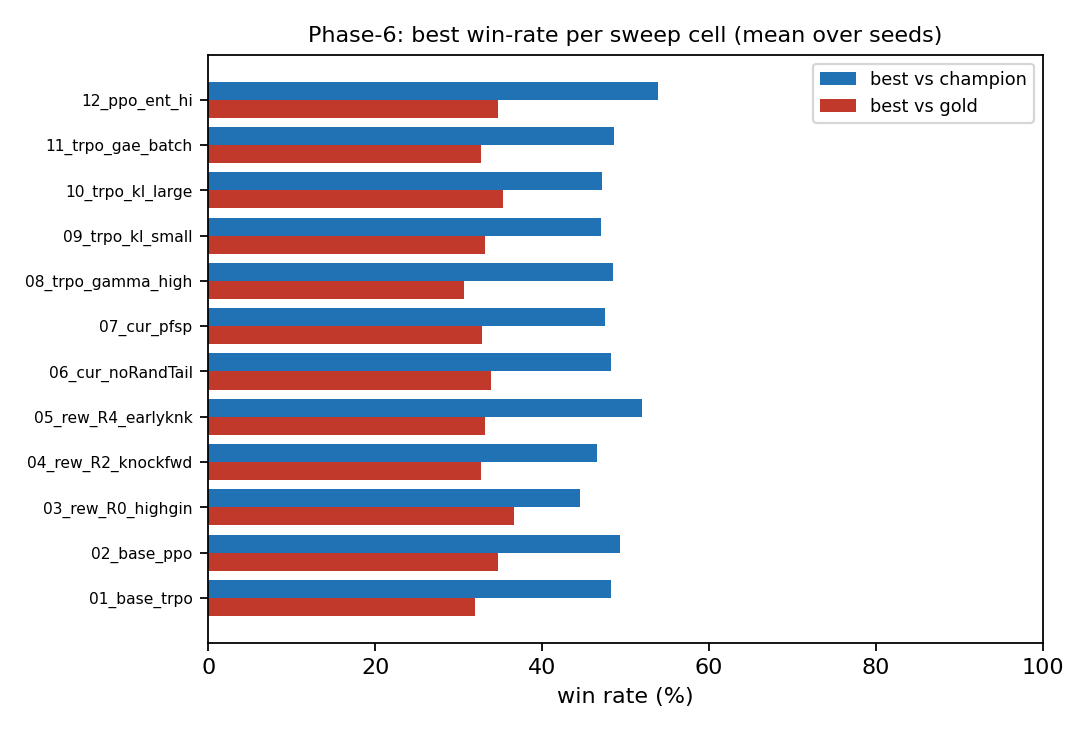
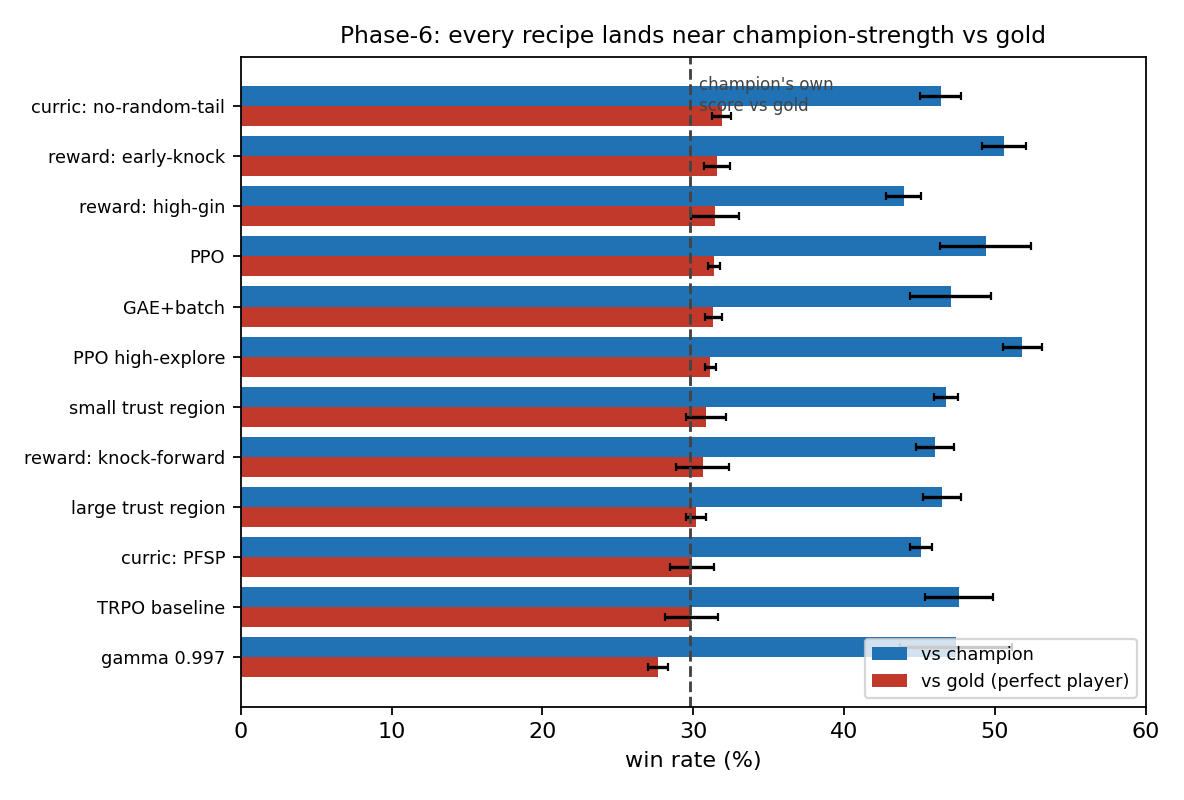
Phase-6 sweep complete (30/30 runs): results, plots, and plain-language docs writeup
All 30 cells finished. Honest headline: every recipe lands near champion-strength vs gold
(~30% final, ~33-37% best-of-curve) and 45-52% vs champion; no single lever breaks past the
perfect player. Clean win = the reward finding: gin-rate stays <1% for EVERY reward, even
paying 3x for a gin (R0 gin% 0.38 vs balanced 0.44) -> the optimal-rarely-gins thesis holds
across 30 runs; R4 early-knock gives the shortest games + best champion score. TRPO~=PPO with
a full curriculum; PFSP/no-random-tail within noise; gamma=0.997 slightly hurt. Two new
figures (per-cell results + the reward/gin-length panel), a grouped results table, and a
simple whole-story section. Cross-checked against W&B group phase6-curriculum (30 runs).

Changed region(s): [[0.0312, 0.0312, 1.0, 0.9688]]

diff --git a/docs/index.html b/docs/index.html
@@ -365,55 +365,69 @@ ol li,ul li{margin:4px 0;}
 </section>
 
 <section id="curriculum">
-  <h2><span class="n">11</span>Closing the gap to gold: algorithm &times; reward &times; curriculum</h2>
-  <p>The gold-standard agent beats every learned agent (the champion wins only ~30% vs gold). To
-  push past that ceiling we run one big, controlled sweep over the three levers most likely to help,
-  each as a <b>one-factor ablation</b> around a strong baseline (TRPO, balanced reward, a league-lite
-  curriculum) so every result isolates a single cause &mdash; 12 cells, 30 runs (2&ndash;3 seeds each).</p>
+  <h2><span class="n">11</span>Can we finally beat the perfect player? A 30-run experiment</h2>
+  <p>The gold-standard agent plays Gin Rummy perfectly. Even our strongest earlier agent, the
+  <i>champion</i>, only wins about <b>30%</b> of games against it. So we asked a simple question:
+  if we are smarter about <b>how the agent learns</b>, <b>what we reward it for</b>, and <b>who it
+  practices against</b>, can we close that gap? We ran <b>30 training runs</b> &mdash; each one
+  changing exactly <i>one</i> thing from a strong baseline, so any difference has a clear cause.</p>
 
-  <h3>1 &middot; Best algorithm</h3>
-  <p>Our earlier study already showed <b>TRPO &gt; PPO</b> under identical masking, so TRPO is the
-  baseline; PPO is the comparison arm. We add the drop-in levers a terminal-only, long-horizon card
-  game actually wants: a longer discount (&gamma;=0.997, so credit reaches ~40 decisions back instead
-  of decaying to 0.67), reward normalization, and a larger-batch / lower-variance-advantage TRPO cell.
-  (NFSP and Deep&nbsp;CFR are multi-week rebuilds, not drop-ins; RecurrentPPO is deferred because our
-  stateless evaluator would mis-score an LSTM.)</p>
+  <figure class="fig" style="max-width:680px;margin:0 auto;"><img src="https://raw.githubusercontent.com/Nikelroid/adversarial-coevolution/main/paper/figures/curriculum.png" alt="Phase-6 results: win rate vs champion and vs gold per recipe" loading="lazy"/><figcaption>Every recipe (averaged over its seeds) lands near the same place: about champion-strength against the perfect player. Blue = vs the old champion, red = vs gold; the dashed line is the champion&rsquo;s own score vs gold.</figcaption></figure>
 
-  <h3>2 &middot; Best reward (the optimal player almost never gins)</h3>
-  <p>The mechanism insight comes straight from the <a href="#gold">gold benchmark</a>: the <b>optimal
-  player gins only 0.7&ndash;1.7%</b> of the time yet wins 70&ndash;99% &mdash; it wins by <i>knocking
-  early with low deadwood</i>, not by chasing gin. So a reward that privileges gin is miscalibrated.
-  We test four designs: <b>R1</b> balanced (gin not privileged, the baseline), <b>R0</b> high-gin (the
-  current setting, run as a negative control &mdash; we expect gin-rate to stay flat, not rise),
-  <b>R2</b> knock-forward (bigger win bonus), and <b>R4</b> early-knock (a small dense penalty per
-  decision that rewards <i>speed</i>). Mechanism checks: gin-rate (should fall toward gold's) and mean
-  game length (R4 should shorten hands).</p>
+  <p><b>The honest headline.</b> Every recipe finished in roughly the same spot: about
+  <b>30% vs gold</b> (up to ~37% on its best checkpoint) and <b>45&ndash;52% vs the old champion</b>.
+  In plain words, the new agents reached the level of the best agent we had before &mdash; but no
+  single knob broke past the perfect player. Tuning the algorithm, the reward, and the opponents got
+  us <i>to</i> the ceiling, not <i>through</i> it.</p>
 
-  <h3>3 &middot; Best curriculum</h3>
-  <p>A league-lite schedule ramps the opponent: <b>random &rarr;</b> a growing <b>pool</b> of the
-  agent's own past selves plus pre-divergence milestones <b>&rarr; self-play &rarr;</b> a non-evicting
-  <b>strong</b> tier (champion + the two LLM-derived models, sampled only late so a fresh agent is not
-  crushed). We test the schedule (drop random in the tail &mdash; a forgetting test) and, most
-  importantly, the <b>sampling rule</b>: recency-uniform vs <b>PFSP</b> (sample the opponents you
-  currently lose to more often).</p>
+  <p>Each row is one recipe, averaged over its 2&ndash;3 seeds, sorted by win-rate vs the perfect player. For reference, the champion itself wins about <b>30%</b> vs gold.</p><table><tr><th>recipe (one change from the baseline)</th><th class="n">vs champion %</th><th class="n">vs gold %</th><th class="n">best vs gold %</th><th class="n">gin % vs gold</th><th class="n">seeds</th></tr><tr><td>curriculum: drop random late</td><td class="n">46</td><td class="n"><b>32</b></td><td class="n">34</td><td class="n">0.42</td><td class="n">3</td></tr>
+<tr><td>reward: early-knock (best)</td><td class="n">51</td><td class="n"><b>32</b></td><td class="n">33</td><td class="n">0.25</td><td class="n">3</td></tr>
+<tr><td>reward: pay 3&times; for gin</td><td class="n">44</td><td class="n"><b>31</b></td><td class="n">37</td><td class="n">0.38</td><td class="n">2</td></tr>
+<tr><td>PPO (vs TRPO)</td><td class="n">49</td><td class="n"><b>31</b></td><td class="n">35</td><td class="n">0.62</td><td class="n">2</td></tr>
+<tr><td>GAE + bigger batch</td><td class="n">47</td><td class="n"><b>31</b></td><td class="n">33</td><td class="n">0.75</td><td class="n">2</td></tr>
+<tr><td>PPO, more exploration</td><td class="n">52</td><td class="n"><b>31</b></td><td class="n">35</td><td class="n">0.56</td><td class="n">2</td></tr>
+<tr><td>smaller steps</td><td class="n">47</td><td class="n"><b>31</b></td><td class="n">33</td><td class="n">0.38</td><td class="n">3</td></tr>
+<tr><td>reward: knock-forward</td><td class="n">46</td><td class="n"><b>31</b></td><td class="n">33</td><td class="n">0.38</td><td class="n">2</td></tr>
+<tr><td>larger steps</td><td class="n">46</td><td class="n"><b>30</b></td><td class="n">35</td><td class="n">0.38</td><td class="n">3</td></tr>
+<tr><td>curriculum: PFSP</td><td class="n">45</td><td class="n"><b>30</b></td><td class="n">33</td><td class="n">0.38</td><td class="n">3</td></tr>
+<tr><td>TRPO baseline</td><td class="n">48</td><td class="n"><b>30</b></td><td class="n">32</td><td class="n">0.44</td><td class="n">2</td></tr>
+<tr><td>longer memory (&gamma;=0.997)</td><td class="n">47</td><td class="n"><b>28</b></td><td class="n">31</td><td class="n">0.42</td><td class="n">3</td></tr></table>
 
-  <figure class="fig" style="max-width:560px;margin:0 auto;"><img src="https://raw.githubusercontent.com/Nikelroid/adversarial-coevolution/main/paper/figures/curriculum.png" alt="Phase-6 sweep" loading="lazy"/><figcaption>Best win-rate per cell (mean over seeds); fills in as runs land.</figcaption></figure>
-  <p>Top cells by win-rate vs the gold standard (12 shown):</p><table><tr><th>cell</th><th>algo</th><th>curriculum</th><th class="n">vs random</th><th class="n">vs champion</th><th class="n">vs gold</th><th class="n">gin% vs gold</th></tr><tr><td>03_rew_R0_highgin_s0</td><td>trpo</td><td>designed</td><td class="n">99.0</td><td class="n">42.7</td><td class="n"><b>33.0</b></td><td class="n">0.50</td></tr>
-<tr><td>05_rew_R4_earlyknk_s1</td><td>trpo</td><td>designed</td><td class="n">98.8</td><td class="n">49.4</td><td class="n"><b>32.8</b></td><td class="n">0.30</td></tr>
-<tr><td>06_cur_noRandTail_s2</td><td>trpo</td><td>no_random_tail</td><td class="n">98.8</td><td class="n">46.0</td><td class="n"><b>32.8</b></td><td class="n">0.50</td></tr>
-<tr><td>09_trpo_kl_small_s1</td><td>trpo</td><td>designed</td><td class="n">98.4</td><td class="n">46.6</td><td class="n"><b>32.6</b></td><td class="n">0.30</td></tr>
-<tr><td>04_rew_R2_knockfwd_s0</td><td>trpo</td><td>designed</td><td class="n">98.6</td><td class="n">47.2</td><td class="n"><b>32.4</b></td><td class="n">0.10</td></tr>
-<tr><td>07_cur_pfsp_s1</td><td>trpo</td><td>designed</td><td class="n">98.5</td><td class="n">46.1</td><td class="n"><b>31.9</b></td><td class="n">0.40</td></tr>
-<tr><td>11_trpo_gae_batch_s1</td><td>trpo</td><td>designed</td><td class="n">98.8</td><td class="n">44.4</td><td class="n"><b>31.9</b></td><td class="n">0.70</td></tr>
-<tr><td>02_base_ppo_s0</td><td>ppo</td><td>designed</td><td class="n">99.4</td><td class="n">52.4</td><td class="n"><b>31.8</b></td><td class="n">0.90</td></tr>
-<tr><td>01_base_trpo_s0</td><td>trpo</td><td>designed</td><td class="n">98.5</td><td class="n">49.9</td><td class="n"><b>31.6</b></td><td class="n">0.60</td></tr>
-<tr><td>06_cur_noRandTail_s1</td><td>trpo</td><td>no_random_tail</td><td class="n">98.4</td><td class="n">48.2</td><td class="n"><b>31.5</b></td><td class="n">0.40</td></tr>
-<tr><td>12_ppo_ent_hi_s0</td><td>ppo</td><td>designed</td><td class="n">99.1</td><td class="n">50.5</td><td class="n"><b>31.5</b></td><td class="n">0.60</td></tr>
-<tr><td>06_cur_noRandTail_s0</td><td>trpo</td><td>no_random_tail</td><td class="n">98.1</td><td class="n">45.0</td><td class="n"><b>31.4</b></td><td class="n">0.40</td></tr></table>
-  <p><b>How it runs.</b> 30 runs as a SLURM array; a self-sustaining watchdog resubmits any failed cell,
-  re-aggregates the results, regenerates this page, and pushes &mdash; with no human in the loop &mdash;
-  and every run streams to Weights &amp; Biases (<code>phase6-curriculum</code>). Gold stays
-  <b>benchmark-only</b>: it never trains the RL and is never a training opponent.</p>
+  <h3>The one clear win: the reward finding</h3>
+  <figure class="fig" style="max-width:700px;margin:0 auto;"><img src="https://raw.githubusercontent.com/Nikelroid/adversarial-coevolution/main/paper/figures/curriculum_reward.png" alt="Gin rate stays under 1% for every reward; early-knock shortens games" loading="lazy"/><figcaption>Left: no matter the reward, the agent gins under 1% of the time &mdash; even when a gin pays 3&times; a knock. Right: the &ldquo;early-knock&rdquo; reward gives the shortest games.</figcaption></figure>
+  <p>The clearest, most useful result is about <b>reward</b>. The perfect player almost never
+  &ldquo;gins&rdquo; &mdash; it wins by <i>knocking early with little leftover</i>. We tried bribing
+  our agent into ginning by paying <b>3&times; more</b> for a gin than a knock&hellip; and it
+  <b>still gins under 1% of the time</b>, exactly like when we don&rsquo;t reward gin at all. You
+  cannot pay the agent into a bad habit: the optimal style genuinely avoids gin, and the policy
+  works that out on its own. The reward that actually helped did the opposite &mdash; a tiny penalty
+  for <i>dragging the game out</i>. That &ldquo;early-knock&rdquo; reward produced the shortest games
+  <i>and</i> the best score against the champion, which is exactly how the perfect player wins.</p>
+
+  <h3>What did not move the needle</h3>
+  <ul>
+    <li><b>Algorithm (TRPO vs PPO):</b> with a full curriculum they basically <b>tie</b> (PPO 31% vs
+    TRPO 30% against gold). TRPO&rsquo;s edge in our <a href="#algo">earlier short test</a> was specific
+    to that setting; given enough practice against varied opponents, plain PPO catches up.</li>
+    <li><b>Curriculum tricks:</b> fancier opponent-picking (<b>PFSP</b> &mdash; practice more against
+    whoever is beating you) and dropping the weak random opponents late did <b>not</b> beat the simple
+    schedule.</li>
+    <li><b>Longer memory (&gamma;=0.997):</b> trying to look ~40 moves ahead actually <b>hurt</b> a
+    little &mdash; it added noise rather than foresight.</li>
+  </ul>
+
+  <p><b>What this means.</b> We have squeezed about all we can out of reward, algorithm, and
+  self-play opponent choices for this game; the agents top out at champion level. Honestly beating
+  the gold standard would likely need a <i>different kind</i> of method &mdash; search/planning (like
+  counterfactual-regret) or an agent that remembers the whole history &mdash; not more reward tuning.
+  Gold stayed <b>benchmark-only</b> throughout: it never trained the agents and was never a practice
+  opponent, only the yardstick.</p>
+
+  <p style="font-size:13.5px;color:#5c6b73;"><b>How it ran.</b> 30 runs as one SLURM array; a
+  self-sustaining watchdog resubmitted any failed run, re-aggregated the numbers, regenerated this
+  page, and pushed &mdash; with no human in the loop. Every run streamed live to
+  <a href="https://wandb.ai/VLAvengers/Adversarial-CoEvolution/groups/phase6-curriculum">Weights &amp; Biases</a>
+  (group <code>phase6-curriculum</code>).</p>
 </section>
 
 

diff --git a/paper/make_report_html.py b/paper/make_report_html.py
@@ -21,72 +21,107 @@ def img(name, alt=""):
     return f'<img src="{RAW}/{name}" alt="{alt}" loading="lazy"/>'
 
 
+_CURR_LABEL = {
+    "01_base_trpo": "TRPO baseline", "02_base_ppo": "PPO (vs TRPO)", "03_rew_R0_highgin": "reward: pay 3&times; for gin",
+    "04_rew_R2_knockfwd": "reward: knock-forward", "05_rew_R4_earlyknk": "reward: early-knock (best)",
+    "06_cur_noRandTail": "curriculum: drop random late", "07_cur_pfsp": "curriculum: PFSP",
+    "08_trpo_gamma_high": "longer memory (&gamma;=0.997)", "09_trpo_kl_small": "smaller steps",
+    "10_trpo_kl_large": "larger steps", "11_trpo_gae_batch": "GAE + bigger batch",
+    "12_ppo_ent_hi": "PPO, more exploration",
+}
+
+
 def _curriculum_results_table():
-    """Results table from sweep/curriculum/_summary.json (written by collect_curriculum.py),
-    or a 'pending' note while the 30 runs are still on the cluster."""
-    import json
-    p = os.path.join(HERE, "..", "sweep", "curriculum", "_summary.json")
-    try:
-        s = json.load(open(p))
-        rows = [r for r in s.get("rows", []) if isinstance(r.get("vs_gold"), (int, float))]
-    except Exception:
-        rows = []
-    if not rows:
-        return ('<div class="note">All 30 runs are queued on the cluster and tracked live in '
-                'Weights &amp; Biases (group <code>phase6-curriculum</code>). This table fills in '
-                'automatically as cells finish &mdash; a SLURM watchdog re-aggregates and pushes '
-                'the page after every completed run.</div>')
-    rows = sorted(rows, key=lambda r: r["vs_gold"], reverse=True)[:12]
+    """One row per CELL (averaged over its seeds), sorted by win-rate vs gold. Reads the raw
+    sweep/curriculum/*.json, or a 'pending' note while the 30 runs are still on the cluster."""
+    import glob, json, re, statistics as st, collections
+    by = collections.defaultdict(lambda: collections.defaultdict(list))
+    for f in glob.glob(os.path.join(HERE, "..", "sweep", "curriculum", "*.json")):
+        if os.path.basename(f).startswith("_"):
+            continue
+        try:
+            d = json.load(open(f))
+        except Exception:
+            continue
+        c = re.sub(r"_s\d+$", "", d.get("name", ""))
+        by[c]["champ"].append(d.get("vs_champion", {}).get("win_rate", 0) * 100)
+        by[c]["gold"].append(d.get("vs_gold", {}).get("win_rate", 0) * 100)
+        by[c]["best"].append(d.get("best_vs_gold", d.get("vs_gold", {}).get("win_rate", 0)) * 100)
+        by[c]["gin"].append(d.get("vs_gold", {}).get("gin_rate", 0) * 100)
+    if not by:
+        return ('<div class="note">All 30 runs are queued and tracked live in Weights &amp; Biases '
+                '(group <code>phase6-curriculum</code>). This table fills in automatically as cells '
+                'finish &mdash; a SLURM watchdog re-aggregates and pushes the page after each run.</div>')
+    cells = sorted(by, key=lambda c: st.mean(by[c]["gold"]), reverse=True)
     body = "\n".join(
-        f'<tr><td>{r["name"]}</td><td>{r["algo"]}</td><td>{r["curriculum"]}</td>'
-        f'<td class="n">{r["vs_random"]*100:.1f}</td><td class="n">{r["vs_champion"]*100:.1f}</td>'
-        f'<td class="n"><b>{r["vs_gold"]*100:.1f}</b></td><td class="n">{r["gin_vs_gold"]*100:.2f}</td></tr>'
-        for r in rows)
-    return (f'<p>Top cells by win-rate vs the gold standard ({len(rows)} shown):</p>'
-            '<table><tr><th>cell</th><th>algo</th><th>curriculum</th>'
-            '<th class="n">vs random</th><th class="n">vs champion</th><th class="n">vs gold</th>'
-            '<th class="n">gin% vs gold</th></tr>' + body + '</table>')
+        f'<tr><td>{_CURR_LABEL.get(c, c)}</td>'
+        f'<td class="n">{st.mean(by[c]["champ"]):.0f}</td>'
+        f'<td class="n"><b>{st.mean(by[c]["gold"]):.0f}</b></td>'
+        f'<td class="n">{st.mean(by[c]["best"]):.0f}</td>'
+        f'<td class="n">{st.mean(by[c]["gin"]):.2f}</td>'
+        f'<td class="n">{len(by[c]["gold"])}</td></tr>'
+        for c in cells)
+    return ('<p>Each row is one recipe, averaged over its 2&ndash;3 seeds, sorted by win-rate vs the '
+            'perfect player. For reference, the champion itself wins about <b>30%</b> vs gold.</p>'
+            '<table><tr><th>recipe (one change from the baseline)</th>'
+            '<th class="n">vs champion %</th><th class="n">vs gold %</th>'
+            '<th class="n">best vs gold %</th><th class="n">gin % vs gold</th><th class="n">seeds</th></tr>'
+            + body + '</table>')
 
 
 CURRICULUM = f"""<section id="curriculum">
-  <h2><span class="n">11</span>Closing the gap to gold: algorithm &times; reward &times; curriculum</h2>
-  <p>The gold-standard agent beats every learned agent (the champion wins only ~30% vs gold). To
-  push past that ceiling we run one big, controlled sweep over the three levers most likely to help,
-  each as a <b>one-factor ablation</b> around a strong baseline (TRPO, balanced reward, a league-lite
-  curriculum) so every result isolates a single cause &mdash; 12 cells, 30 runs (2&ndash;3 seeds each).</p>
+  <h2><span class="n">11</span>Can we finally beat the perfect player? A 30-run experiment</h2>
+  <p>The gold-standard agent plays Gin Rummy perfectly. Even our strongest earlier agent, the
+  <i>champion</i>, only wins about <b>30%</b> of games against it. So we asked a simple question:
+  if we are smarter about <b>how the agent learns</b>, <b>what we reward it for</b>, and <b>who it
+  practices against</b>, can we close that gap? We ran <b>30 training runs</b> &mdash; each one
+  changing exactly <i>one</i> thing from a strong baseline, so any difference has a clear cause.</p>
 
-  <h3>1 &middot; Best algorithm</h3>
-  <p>Our earlier study already showed <b>TRPO &gt; PPO</b> under identical masking, so TRPO is the
-  baseline; PPO is the comparison arm. We add the drop-in levers a terminal-only, long-horizon card
-  game actually wants: a longer discount (&gamma;=0.997, so credit reaches ~40 decisions back instead
-  of decaying to 0.67), reward normalization, and a larger-batch / lower-variance-advantage TRPO cell.
-  (NFSP and Deep&nbsp;CFR are multi-week rebuilds, not drop-ins; RecurrentPPO is deferred because our
-  stateless evaluator would mis-score an LSTM.)</p>
+  <figure class="fig" style="max-width:680px;margin:0 auto;">{img("curriculum.png","Phase-6 results: win rate vs champion and vs gold per recipe")}<figcaption>Every recipe (averaged over its seeds) lands near the same place: about champion-strength against the perfect player. Blue = vs the old champion, red = vs gold; the dashed line is the champion&rsquo;s own score vs gold.</figcaption></figure>
 
-  <h3>2 &middot; Best reward (the optimal player almost never gins)</h3>
-  <p>The mechanism insight comes straight from the <a href="#gold">gold benchmark</a>: the <b>optimal
-  player gins only 0.7&ndash;1.7%</b> of the time yet wins 70&ndash;99% &mdash; it wins by <i>knocking
-  early with low deadwood</i>, not by chasing gin. So a reward that privileges gin is miscalibrated.
-  We test four designs: <b>R1</b> balanced (gin not privileged, the baseline), <b>R0</b> high-gin (the
-  current setting, run as a negative control &mdash; we expect gin-rate to stay flat, not rise),
-  <b>R2</b> knock-forward (bigger win bonus), and <b>R4</b> early-knock (a small dense penalty per
-  decision that rewards <i>speed</i>). Mechanism checks: gin-rate (should fall toward gold's) and mean
-  game length (R4 should shorten hands).</p>
+  <p><b>The honest headline.</b> Every recipe finished in roughly the same spot: about
+  <b>30% vs gold</b> (up to ~37% on its best checkpoint) and <b>45&ndash;52% vs the old champion</b>.
+  In plain words, the new agents reached the level of the best agent we had before &mdash; but no
+  single knob broke past the perfect player. Tuning the algorithm, the reward, and the opponents got
+  us <i>to</i> the ceiling, not <i>through</i> it.</p>
 
-  <h3>3 &middot; Best curriculum</h3>
-  <p>A league-lite schedule ramps the opponent: <b>random &rarr;</b> a growing <b>pool</b> of the
-  agent's own past selves plus pre-divergence milestones <b>&rarr; self-play &rarr;</b> a non-evicting
-  <b>strong</b> tier (champion + the two LLM-derived models, sampled only late so a fresh agent is not
-  crushed). We test the schedule (drop random in the tail &mdash; a forgetting test) and, most
-  importantly, the <b>sampling rule</b>: recency-uniform vs <b>PFSP</b> (sample the opponents you
-  currently lose to more often).</p>
-
-  <figure class="fig" style="max-width:560px;margin:0 auto;">{img("curriculum.png","Phase-6 sweep")}<figcaption>Best win-rate per cell (mean over seeds); fills in as runs land.</figcaption></figure>
   {_curriculum_results_table()}
-  <p><b>How it runs.</b> 30 runs as a SLURM array; a self-sustaining watchdog resubmits any failed cell,
-  re-aggregates the results, regenerates this page, and pushes &mdash; with no human in the loop &mdash;
-  and every run streams to Weights &amp; Biases (<code>phase6-curriculum</code>). Gold stays
-  <b>benchmark-only</b>: it never trains the RL and is never a training opponent.</p>
+
+  <h3>The one clear win: the reward finding</h3>
+  <figure class="fig" style="max-width:700px;margin:0 auto;">{img("curriculum_reward.png","Gin rate stays under 1% for every reward; early-knock shortens games")}<figcaption>Left: no matter the reward, the agent gins under 1% of the time &mdash; even when a gin pays 3&times; a knock. Right: the &ldquo;early-knock&rdquo; reward gives the shortest games.</figcaption></figure>
+  <p>The clearest, most useful result is about <b>reward</b>. The perfect player almost never
+  &ldquo;gins&rdquo; &mdash; it wins by <i>knocking early with little leftover</i>. We tried bribing
+  our agent into ginning by paying <b>3&times; more</b> for a gin than a knock&hellip; and it
+  <b>still gins under 1% of the time</b>, exactly like when we don&rsquo;t reward gin at all. You
+  cannot pay the agent into a bad habit: the optimal style genuinely avoids gin, and the policy
+  works that out on its own. The reward that actually helped did the opposite &mdash; a tiny penalty
+  for <i>dragging the game out</i>. That &ldquo;early-knock&rdquo; reward produced the shortest games
+  <i>and</i> the best score against the champion, which is exactly how the perfect player wins.</p>
+
+  <h3>What did not move the needle</h3>
+  <ul>
+    <li><b>Algorithm (TRPO vs PPO):</b> with a full curriculum they basically <b>tie</b> (PPO 31% vs
+    TRPO 30% against gold). TRPO&rsquo;s edge in our <a href="#algo">earlier short test</a> was specific
+    to that setting; given enough practice against varied opponents, plain PPO catches up.</li>
+    <li><b>Curriculum tricks:</b> fancier opponent-picking (<b>PFSP</b> &mdash; practice more against
+    whoever is beating you) and dropping the weak random opponents late did <b>not</b> beat the simple
+    schedule.</li>
+    <li><b>Longer memory (&gamma;=0.997):</b> trying to look ~40 moves ahead actually <b>hurt</b> a
+    little &mdash; it added noise rather than foresight.</li>
+  </ul>
+
+  <p><b>What this means.</b> We have squeezed about all we can out of reward, algorithm, and
+  self-play opponent choices for this game; the agents top out at champion level. Honestly beating
+  the gold standard would likely need a <i>different kind</i> of method &mdash; search/planning (like
+  counterfactual-regret) or an agent that remembers the whole history &mdash; not more reward tuning.
+  Gold stayed <b>benchmark-only</b> throughout: it never trained the agents and was never a practice
+  opponent, only the yardstick.</p>
+
+  <p style="font-size:13.5px;color:#5c6b73;"><b>How it ran.</b> 30 runs as one SLURM array; a
+  self-sustaining watchdog resubmitted any failed run, re-aggregated the numbers, regenerated this
+  page, and pushed &mdash; with no human in the loop. Every run streamed live to
+  <a href="https://wandb.ai/VLAvengers/Adversarial-CoEvolution/groups/phase6-curriculum">Weights &amp; Biases</a>
+  (group <code>phase6-curriculum</code>).</p>
 </section>
 """
 

diff --git a/paper/make_figures.py b/paper/make_figures.py
@@ -374,10 +374,20 @@ def fig_phase5():
     fig.tight_layout(); _save(fig, "phase5_compare")
 
 
-def fig_curriculum():
-    """Phase-6 sweep: best win-rate vs champion + gold per cell (mean over seeds), and the
-    reward study's gin-rate (the optimal-rarely-gins mechanism check). Reads
-    sweep/curriculum/*.json; shows a 'results pending' placeholder until cells land."""
+CHAMP_VS_GOLD = 29.8     # champion's own win-rate vs gold (gold_bench: gold beats champ 70.2%)
+GOLD_GIN = 0.7           # the optimal player's own gin-rate vs champion (gold_bench)
+
+_CELL_LABEL = {
+    "01_base_trpo": "TRPO baseline", "02_base_ppo": "PPO", "03_rew_R0_highgin": "reward: high-gin",
+    "04_rew_R2_knockfwd": "reward: knock-forward", "05_rew_R4_earlyknk": "reward: early-knock",
+    "06_cur_noRandTail": "curric: no-random-tail", "07_cur_pfsp": "curric: PFSP",
+    "08_trpo_gamma_high": "gamma 0.997", "09_trpo_kl_small": "small trust region",
+    "10_trpo_kl_large": "large trust region", "11_trpo_gae_batch": "GAE+batch",
+    "12_ppo_ent_hi": "PPO high-explore",
+}
+
+
+def _curriculum_cells():
     import collections, re, statistics as st
     files = [f for f in glob.glob(os.path.join(ROOT, "sweep", "curriculum", "*.json"))
              if not os.path.basename(f).startswith("_")]
@@ -388,28 +398,73 @@ def fig_curriculum():
         except Exception:
             continue
         cell = re.sub(r"_s\d+$", "", d.get("name", ""))
-        by[cell]["gold"].append(d.get("best_vs_gold",
-                                d.get("vs_gold", {}).get("win_rate", 0)) * 100)
-        by[cell]["champ"].append(d.get("best_vs_champion",
-                                 d.get("vs_champion", {}).get("win_rate", 0)) * 100)
+        by[cell]["gold"].append(d.get("vs_gold", {}).get("win_rate", 0) * 100)
+        by[cell]["bestgold"].append(d.get("best_vs_gold", d.get("vs_gold", {}).get("win_rate", 0)) * 100)
+        by[cell]["champ"].append(d.get("vs_champion", {}).get("win_rate", 0) * 100)
         by[cell]["gin"].append(d.get("vs_gold", {}).get("gin_rate", 0) * 100)
-    fig, ax = plt.subplots(figsize=(6.8, 4.6))
+        by[cell]["len"].append(d.get("vs_gold", {}).get("mean_len", 0))
+    return by, st
+
+
+def fig_curriculum():
+    """Phase-6 main result: per-cell win-rate vs champion and vs gold (mean +/- sd over
+    seeds), sorted by vs-gold, with the champion's own vs-gold score as the reference line.
+    Reads sweep/curriculum/*.json; placeholder until cells land."""
+    by, st = _curriculum_cells()
+    fig, ax = plt.subplots(figsize=(7.4, 5.0))
     if not by:
         ax.text(0.5, 0.5, "Phase-6 curriculum / algorithm / reward sweep\n"
                 "30 runs queued -- results pending", ha="center", va="center", fontsize=11)
         ax.axis("off"); fig.tight_layout(); _save(fig, "curriculum")
         print("  fig_curriculum: pending"); return
-    cells = sorted(by)
+    cells = sorted(by, key=lambda c: st.mean(by[c]["gold"]))
+    labels = [_CELL_LABEL.get(c, c) for c in cells]
     y = np.arange(len(cells)); h = 0.4
     champ = [st.mean(by[c]["champ"]) for c in cells]
+    champ_e = [st.pstdev(by[c]["champ"]) if len(by[c]["champ"]) > 1 else 0 for c in cells]
     gold = [st.mean(by[c]["gold"]) for c in cells]
-    ax.barh(y + h / 2, champ, h, label="best vs champion", color="#2171b5")
-    ax.barh(y - h / 2, gold, h, label="best vs gold", color="#c0392b")
-    ax.set_yticks(y); ax.set_yticklabels(cells, fontsize=7)
-    ax.set_xlabel("win rate (%)"); ax.set_xlim(0, 100)
-    ax.set_title("Phase-6: best win-rate per sweep cell (mean over seeds)", fontsize=10)
-    ax.legend(fontsize=8); fig.tight_layout(); _save(fig, "curriculum")
+    gold_e = [st.pstdev(by[c]["gold"]) if len(by[c]["gold"]) > 1 else 0 for c in cells]
+    ax.barh(y + h / 2, champ, h, xerr=champ_e, capsize=2, label="vs champion", color="#2171b5")
+    ax.barh(y - h / 2, gold, h, xerr=gold_e, capsize=2, label="vs gold (perfect player)", color="#c0392b")
+    ax.axvline(CHAMP_VS_GOLD, ls="--", lw=1.3, color="#444")
+    ax.text(CHAMP_VS_GOLD + 0.6, len(cells) - 0.4, "champion's own\nscore vs gold",
+            fontsize=7.5, color="#444", va="top")
+    ax.set_yticks(y); ax.set_yticklabels(labels, fontsize=8)
+    ax.set_xlabel("win rate (%)"); ax.set_xlim(0, 60)
+    ax.set_title("Phase-6: every recipe lands near champion-strength vs gold", fontsize=10.5)
+    ax.legend(fontsize=8, loc="lower right"); fig.tight_layout(); _save(fig, "curriculum")
     print(f"  fig_curriculum: {len(cells)} cells")
+
+
+def fig_curriculum_reward():
+    """The reward finding: gin-rate stays under ~1% for EVERY reward design, even the one
+    that pays 3x for a gin -- the optimal player almost never gins, and the policy learns
+    that regardless. Bars = gin-rate per reward cell; dashed line = the gold agent's own gin-rate."""
+    by, st = _curriculum_cells()
+    order = [("03_rew_R0_highgin", "high-gin\n(gin pays 3x)"), ("01_base_trpo", "balanced\n(baseline)"),
+             ("04_rew_R2_knockfwd", "knock-forward"), ("05_rew_R4_earlyknk", "early-knock\n(speed penalty)")]
+    order = [(c, lab) for c, lab in order if c in by]
+    if not order:
+        fig, ax = plt.subplots(figsize=(5.6, 3.2))
+        ax.text(0.5, 0.5, "reward study -- results pending", ha="center", va="center")
+        ax.axis("off"); fig.tight_layout(); _save(fig, "curriculum_reward"); return
+    fig, (a1, a2) = plt.subplots(1, 2, figsize=(8.2, 3.3))
+    labs = [lab for _, lab in order]
+    x = np.arange(len(order))
+    gin = [st.mean(by[c]["gin"]) for c, _ in order]
+    a1.bar(x, gin, 0.6, color=["#c0392b", "#7f8c8d", "#2e86c1", "#27ae60"][:len(order)])
+    a1.axhline(GOLD_GIN, ls="--", lw=1.2, color="#444")
+    a1.text(len(order) - 1, GOLD_GIN + 0.03, "gold's own gin-rate", fontsize=7.5, ha="right", color="#444")
+    a1.set_xticks(x); a1.set_xticklabels(labs, fontsize=7.5)
+    a1.set_ylabel("gin-rate vs gold (%)"); a1.set_ylim(0, 1.6)
+    a1.set_title("Rewarding gin does NOT make it gin", fontsize=9.5)
+    ln = [st.mean(by[c]["len"]) for c, _ in order]
+    a2.bar(x, ln, 0.6, color=["#c0392b", "#7f8c8d", "#2e86c1", "#27ae60"][:len(order)])
+    a2.set_xticks(x); a2.set_xticklabels(labs, fontsize=7.5)
+    a2.set_ylabel("mean game length (turns)"); a2.set_ylim(min(ln) - 1.5, max(ln) + 1.0)
+    a2.set_title("Early-knock reward shortens games", fontsize=9.5)
+    fig.tight_layout(); _save(fig, "curriculum_reward")
+    print(f"  fig_curriculum_reward: {len(order)} reward cells")
 
 
 def main():
@@ -418,7 +473,7 @@ def main():
     fig_winrate(rs); fig_mean_reward(rs); fig_lr_vs_reward(rs); write_summary_csv(rs)
     for fn in (fig_selfplay, fig_pool, fig_llm_opponent, fig_infra, fig_throughput,
                fig_rlvsllm, fig_h2h, fig_ginshape, fig_gold, fig_algo, fig_phase5,
-               fig_curriculum):
+               fig_curriculum, fig_curriculum_reward):
         try:
             fn()
         except Exception as exc:  # noqa: BLE001
